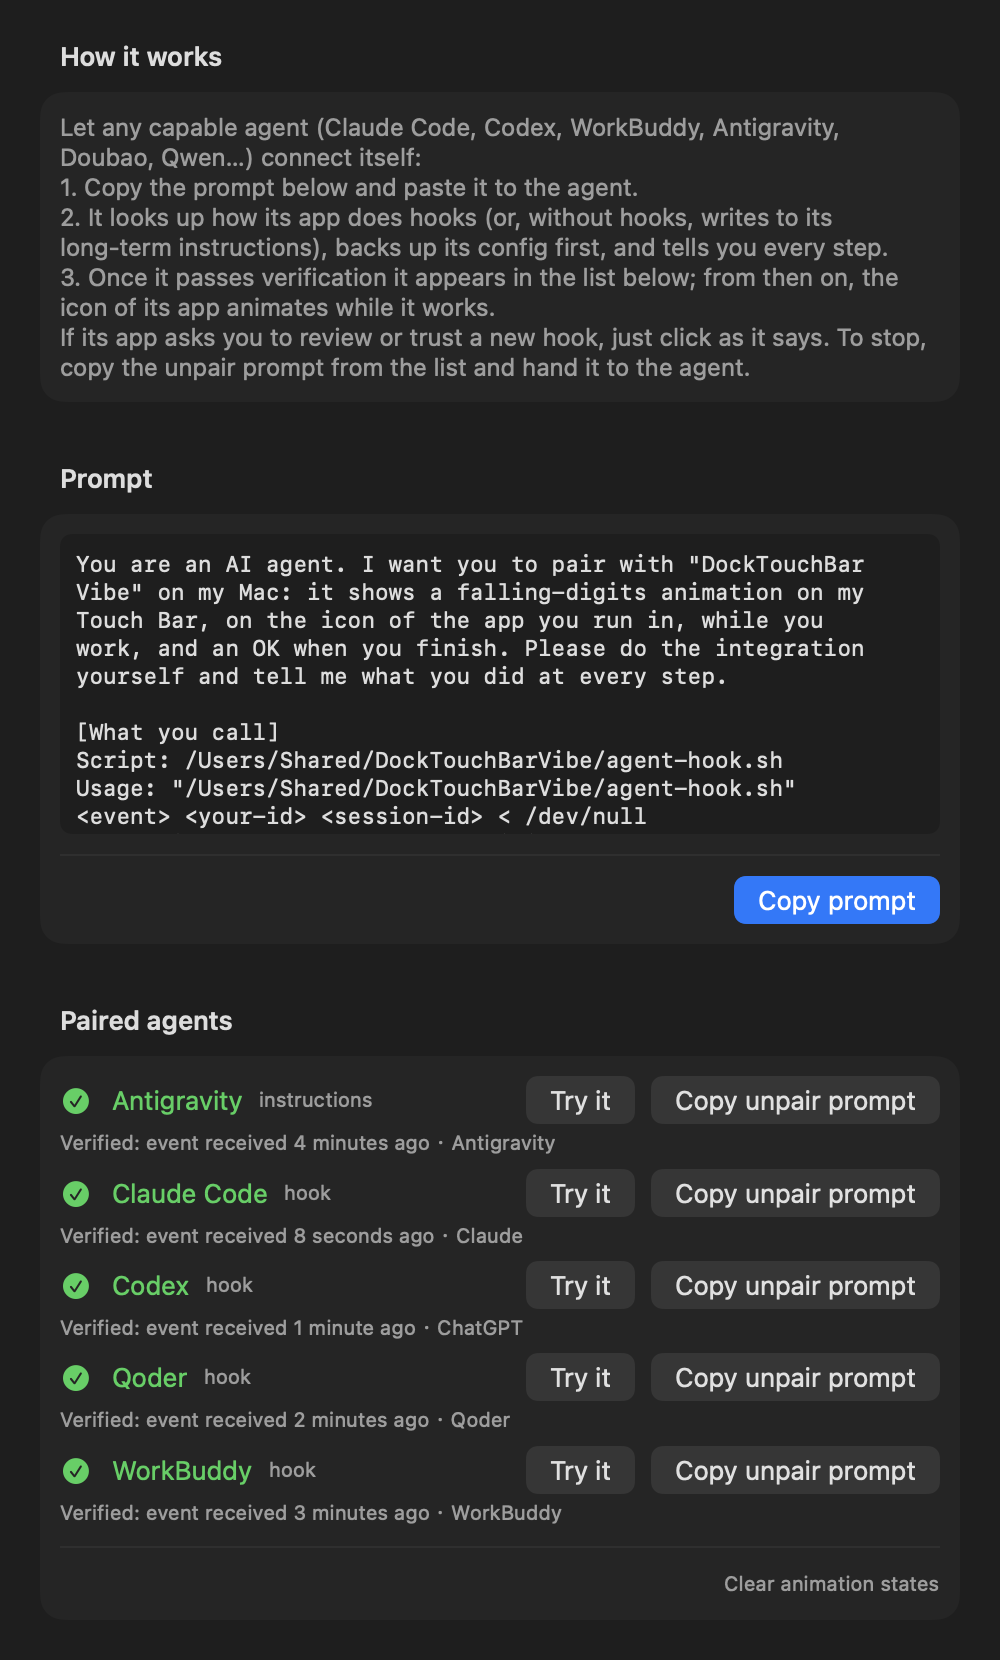
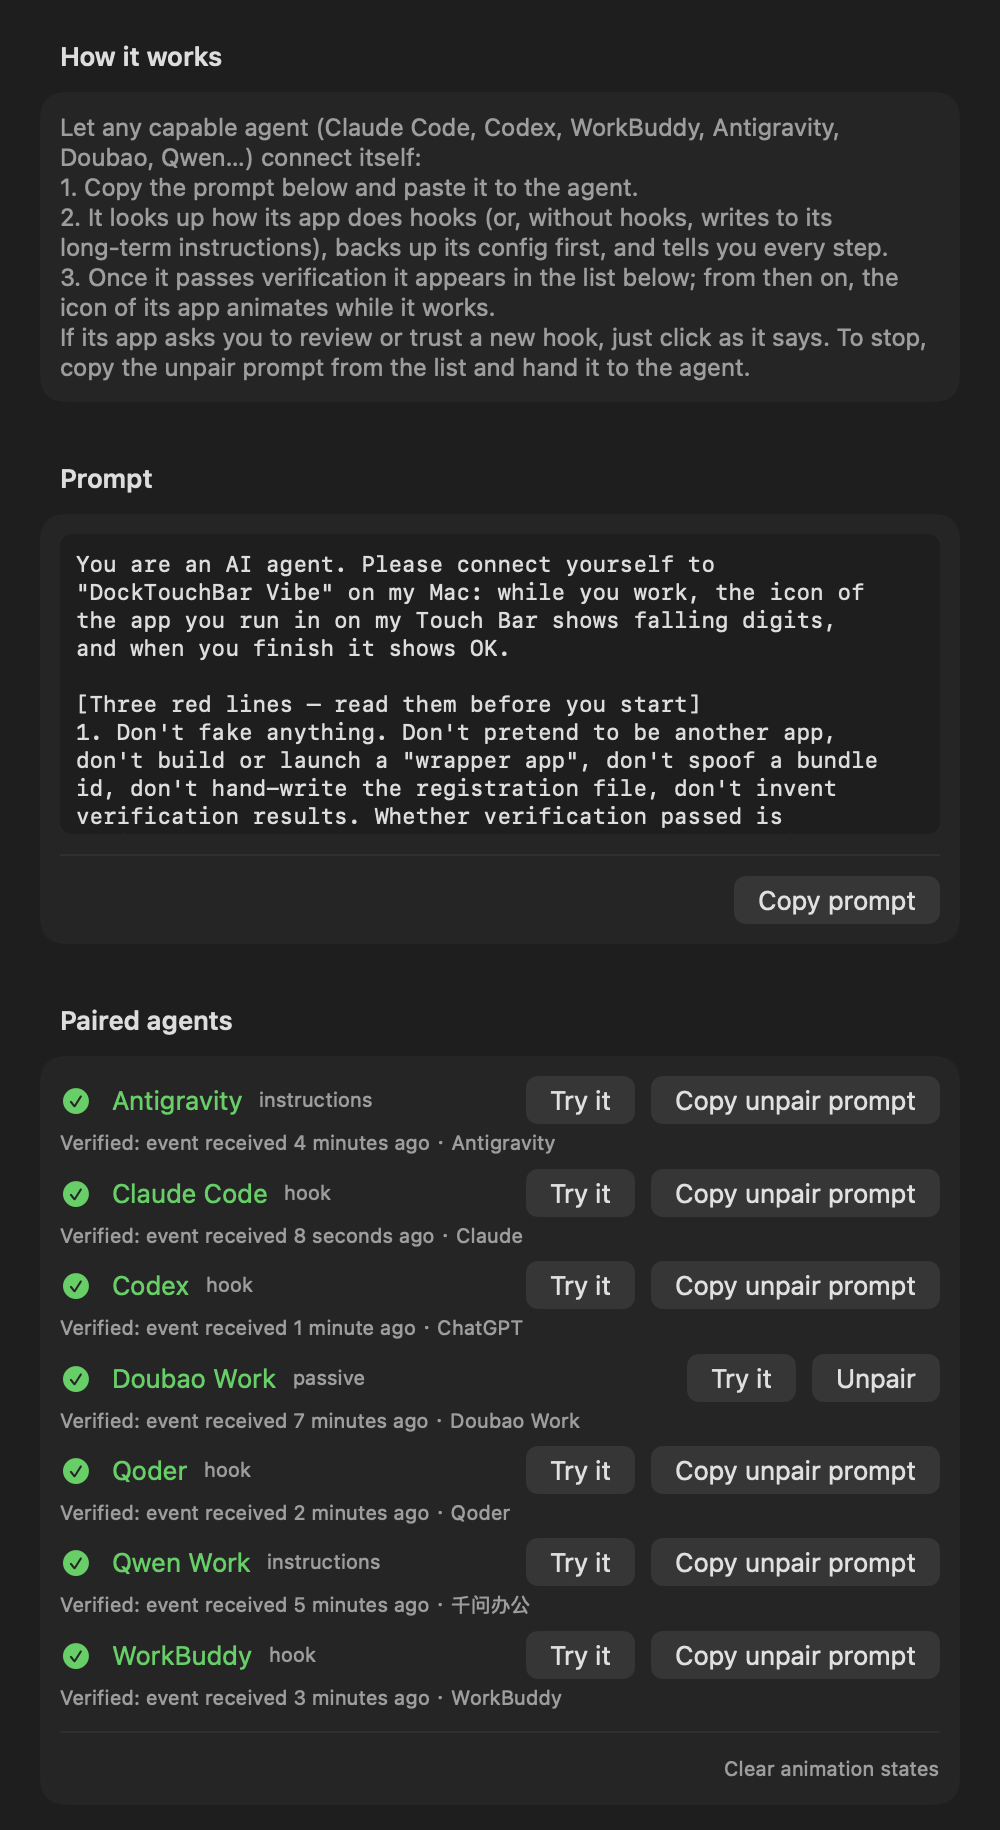
README assets: pairing screenshots with the current UI and seven agents

diff --git a/tools/render-settings/main.swift b/tools/render-settings/main.swift
@@ -25,6 +25,8 @@ if env["RENDER_FAKE"] == "1" {
         ("qoder", "Qoder", "hook", "com.qoder.app"),
         ("workbuddy", "WorkBuddy", "hook", "com.tencent.workbuddy.mac"),
         ("antigravity", "Antigravity", "instructions", "com.google.antigravity"),
+        ("qwenwork", "Qwen Work", "instructions", "cn.qwenwork.desktop.mac"),
+        ("doubao", "Doubao Work", "passive", "com.work.pc.doubao"),
     ]
     var activity: [String: [String: Any]] = [:]
     for (index, agent) in fake.enumerated() {
